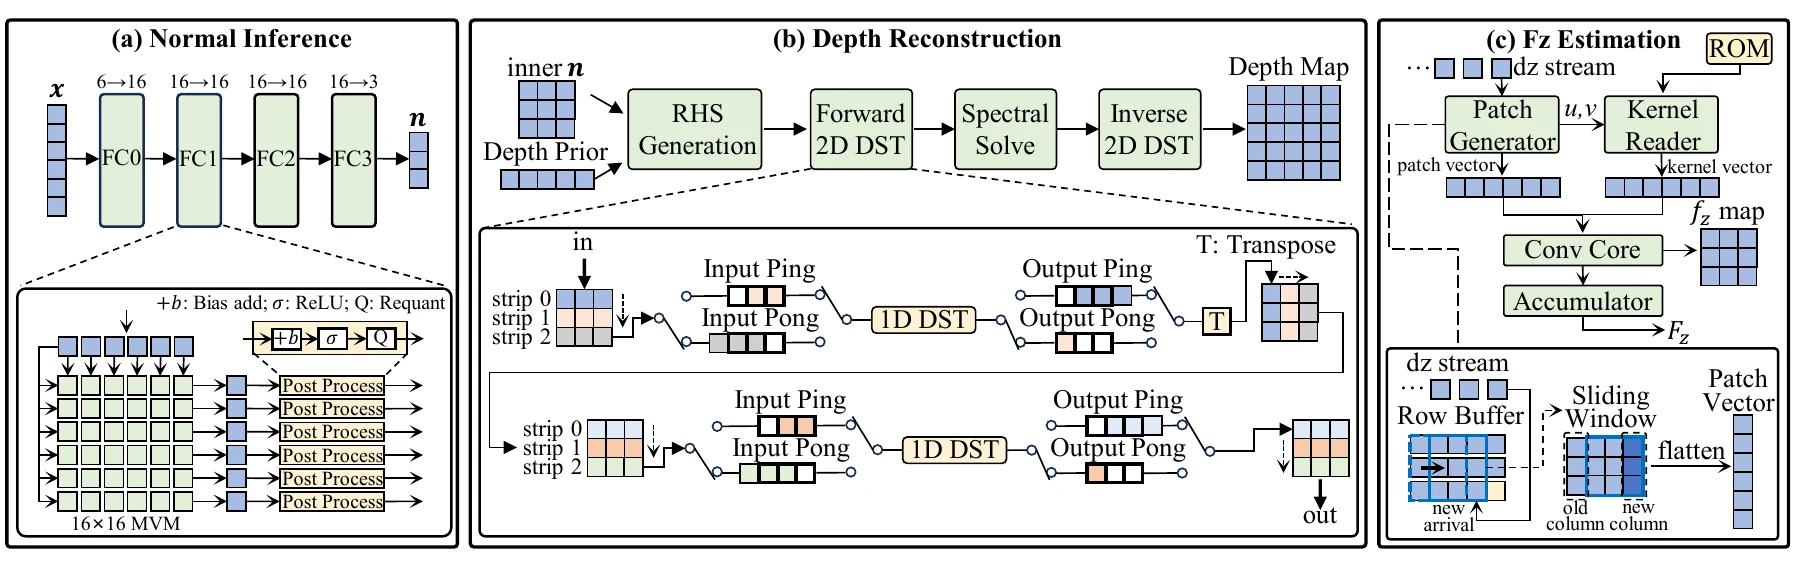
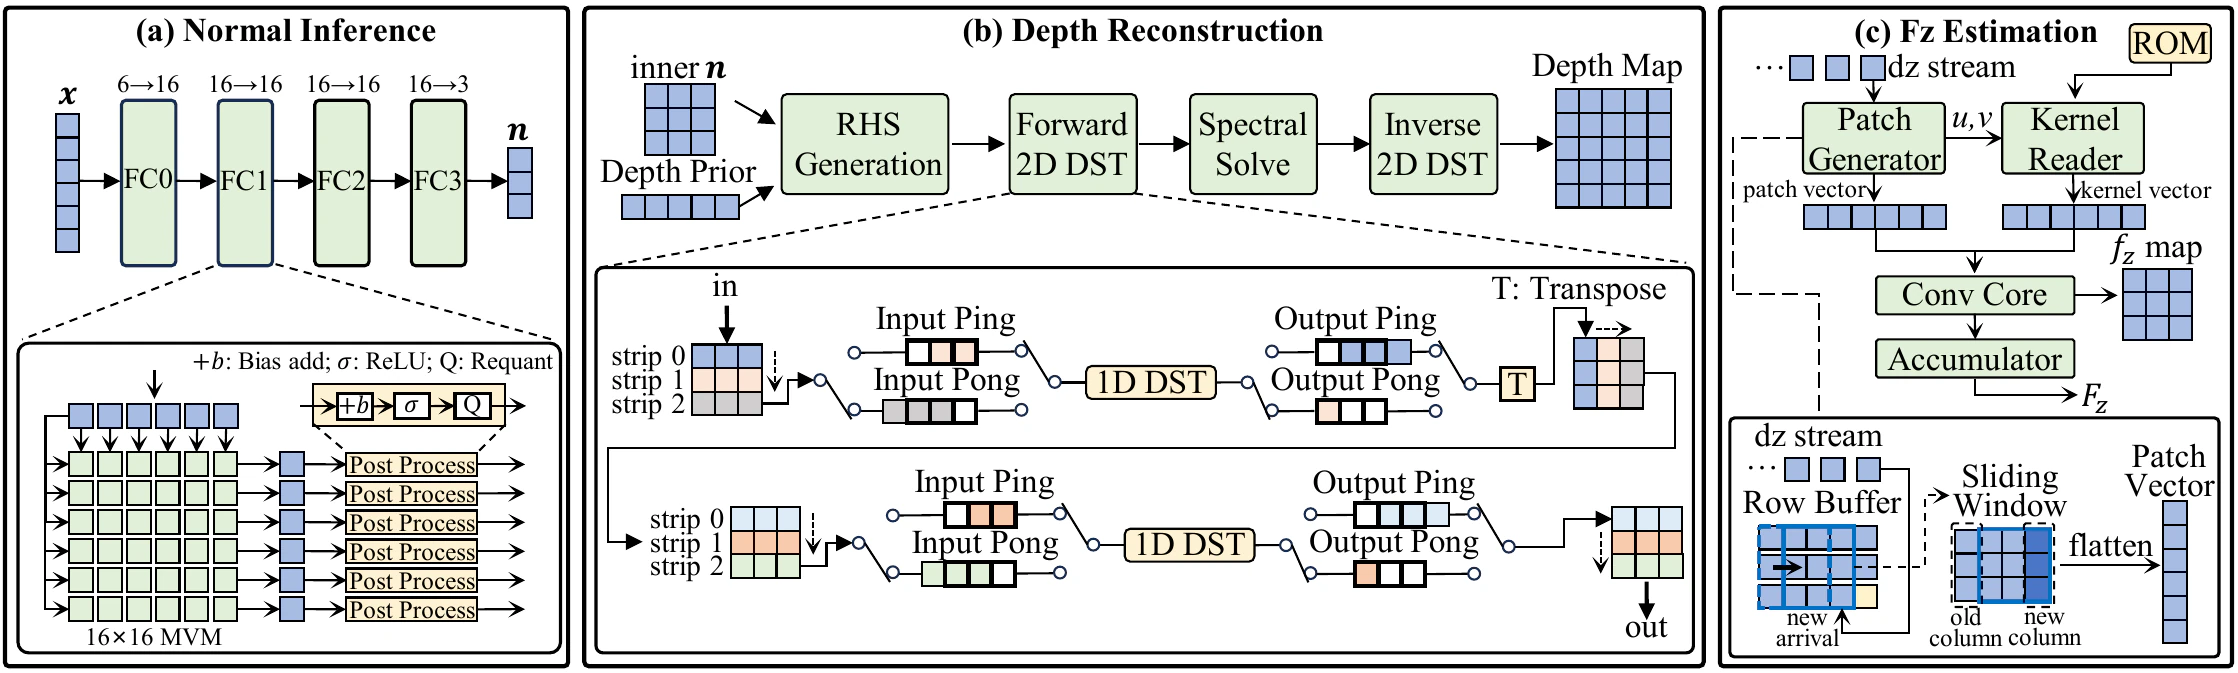
Refine FasTac results and FPGA layout

Changed region(s): [[0.0, 0.0, 1.0, 1.0], [0.5924, 0.3298, 0.686, 0.3598]]

diff --git a/index.html b/index.html
@@ -213,15 +213,9 @@
               <p class="section-index">Edge Deployment</p>
               <h3>FPGA image-to-normal-force pipeline</h3>
               <p>The PS orchestrates image synchronization, buffering, control, and readout while the PL executes the latency-critical stream. At 150 MHz, the complete image-to-Fz path runs in 1.09 ms.</p>
-              <div class="pipeline-flow" aria-label="FPGA processing pipeline">
-                <span>RGB/NIR</span><i aria-hidden="true">→</i>
-                <span>Normal</span><i aria-hidden="true">→</i>
-                <span>Depth</span><i aria-hidden="true">→</i>
-                <span>Fz</span>
-              </div>
             </div>
             <figure class="fpga-figure">
-              <img src="assets/images/fpga-architecture.webp" alt="FPGA architecture for the FasTac image-to-normal-force perception pipeline." width="1796" height="567" loading="lazy">
+              <img src="assets/images/fpga-architecture.webp" alt="FPGA architecture for the FasTac image-to-normal-force perception pipeline." width="2238" height="673" loading="lazy">
               <figcaption>Quantized normal inference, boundary-prior reconstruction, and streaming force accumulation.</figcaption>
             </figure>
           </article>
@@ -253,7 +247,7 @@
 
           <article class="result-card">
             <figure>
-              <img src="assets/images/force-regression.webp" alt="Regression between FasTac three-axis force predictions and ATI force-sensor ground truth." width="865" height="291" loading="lazy">
+              <img src="assets/images/force-regression.webp" alt="Regression between FasTac three-axis force predictions and ATI force-sensor ground truth." width="1077" height="354" loading="lazy">
             </figure>
             <div>
               <p class="card-label">Force estimation</p>
@@ -264,7 +258,7 @@
 
           <article class="result-card">
             <figure>
-              <img src="assets/images/feedback-grasping-result.webp" alt="Contact force, friction coefficient, and motor-angle response without and with friction-coefficient feedback." width="1500" height="1223" loading="lazy">
+              <img src="assets/images/feedback-grasping-result.webp" alt="Contact force, friction coefficient, and motor-angle response without and with friction-coefficient feedback." width="1036" height="1133" loading="lazy">
             </figure>
             <div>
               <p class="card-label">Feedback grasping</p>

diff --git a/assets/css/style.css b/assets/css/style.css
@@ -557,7 +557,7 @@ select {
 .method-feature-grid {
   margin-top: 42px;
   display: grid;
-  grid-template-columns: repeat(2, minmax(0, 1fr));
+  grid-template-columns: minmax(0, 1fr);
   gap: 18px;
 }
 
@@ -632,41 +632,10 @@ select {
   margin-top: 12px;
 }
 
-.pipeline-flow {
-  margin-top: 22px;
-  display: flex;
-  flex-wrap: wrap;
-  justify-content: flex-start;
-  gap: 8px;
-}
-
-.pipeline-flow span,
-.pipeline-flow i {
-  min-height: 40px;
-  display: inline-flex;
-  align-items: center;
-  justify-content: center;
-  border-radius: var(--radius);
-}
-
-.pipeline-flow span {
-  padding: 9px 12px;
-  color: white;
-  background: rgba(255, 255, 255, 0.09);
-  border: 1px solid rgba(255, 255, 255, 0.16);
-  font-weight: 800;
-}
-
-.pipeline-flow i {
-  color: #f1b24e;
-  font-style: normal;
-  font-weight: 850;
-}
-
 .fpga-figure {
   margin: 0;
   padding: 14px;
-  align-self: center;
+  width: 100%;
   background: rgba(255, 255, 255, 0.96);
   border: 1px solid rgba(255, 255, 255, 0.22);
   border-radius: var(--radius);
@@ -674,7 +643,7 @@ select {
 
 .fpga-figure img {
   width: 100%;
-  max-height: 520px;
+  height: auto;
   object-fit: contain;
   border-radius: 5px;
 }
@@ -687,8 +656,9 @@ select {
 
 .result-grid {
   display: grid;
-  grid-template-columns: repeat(2, 1fr);
+  grid-template-columns: minmax(0, 1fr);
   gap: 18px;
+  align-items: start;
 }
 
 .result-card {
@@ -959,7 +929,7 @@ select {
 
   .metrics-grid,
   .result-grid {
-    grid-template-columns: repeat(2, 1fr);
+    grid-template-columns: minmax(0, 1fr);
   }
 
   .principles,
@@ -974,10 +944,6 @@ select {
 
   .result-wide {
     grid-column: 1 / -1;
-  }
-
-  .pipeline-flow {
-    justify-content: flex-start;
   }
 
   .hero h1 {
@@ -1108,14 +1074,6 @@ select {
     grid-template-columns: 1fr;
   }
 
-  .pipeline-flow {
-    display: grid;
-    grid-template-columns: repeat(2, minmax(0, 1fr));
-  }
-
-  .pipeline-flow i {
-    display: none;
-  }
 }
 
 @media (prefers-reduced-motion: reduce) {
